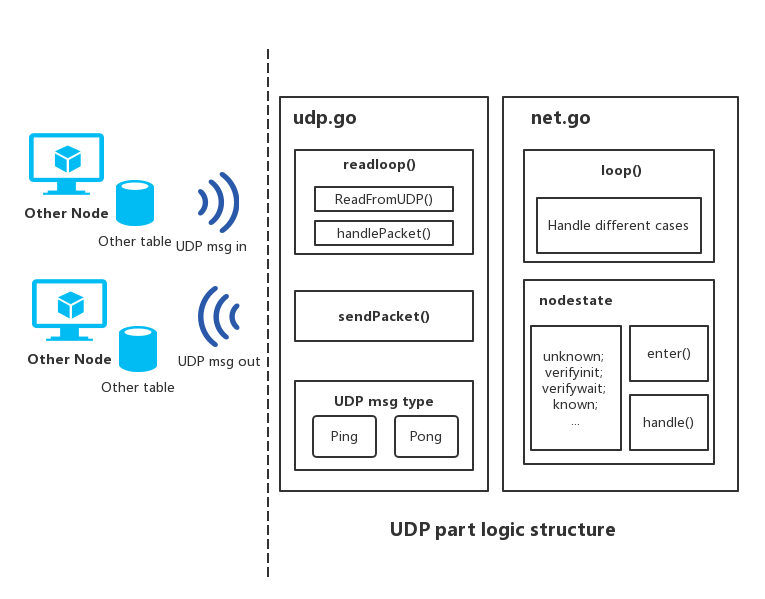
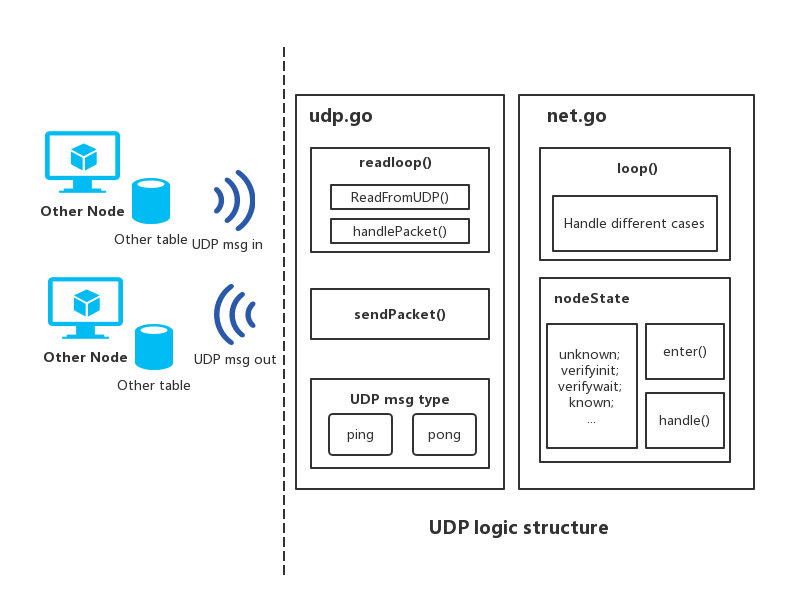
new update

Changed region(s): [[0.0301, 0.0902, 0.9621, 0.9616]]

diff --git a/ethereum P2P/Ethereum P2P.md b/ethereum P2P/Ethereum P2P.md
@@ -14,7 +14,7 @@ p.s. 主要针对以太坊源码的对应实现，相关的算法如kademlia DHT
 
 上图中，第一和第二步每隔一段时间就会重复一次。目的是保持当前节点的table所存储的url的可用性。当节点需要寻找新的节点用于tcp数据传输时，就从一直在更新维护的table中取出一定数量的url进行连接即可。
 
-## **UDP部分**
+## **UDP部分主要概念**
 
 前文提到过，以太坊会维护一个table结构用于存储发现的节点url，当需要连接新的节点时会从table中获取一定数量的url进行tcp连接。在这个过程中，table的更新和维护将会在独立的goroutine中进行。这部分涉及的代码主要在 `p2p/discvV5` 目录下的 `udp.go`, `net.go`, `table.go` 这三个文件中。下面我们看看udp这部分的主要逻辑结构：
 
@@ -69,8 +69,8 @@ func (net *Network) loop() {
 ```go
 type nodeState struct {
     name     string
-    handle   func(*Network, *Node, nodeEvent, *ingressPacket) (next *nodeState, err error)
-    enter    func(*Network, *Node)
+    handle   func( ... ) ( ... )
+    enter    func( ... )
     canQuery bool
 }
 
@@ -95,9 +95,36 @@ func init() {
 }
 ```
 
-<!-- TODO -->
+nodeState主要是为了记录新地址的可用状态。当节点接触新的 url 时，此 url 会首先被定义为 unknown 状态，然后进入后续 ping pong 验证阶段。验证流程过完以后 就会被定义为 known 状态然后保存到 table 中。
 
-## **新节点加入流程**
+### **enter() 和 handle()**
+
+nodeState 结构下定义了两个方法 `enter()` 和 `handle()`。
+
+- enter 是 nodeState 的入口方法，当一个 url 从 nodeState1 转到 nodeState2 时，它就会调用 nodeState2 的 enter() 方法。
+- handle 是 nodeState 的处理方法，当节点收到某个 url 的 udp 消息时，会调用此 url 当前 nodeState 的 handle() 方法。一般 handle() 方法会针对不同的 udp 消息类型进行不同的逻辑处理：
+
+```go
+// verifywait 的 handle 方法
+func (net *Network, n *Node, ev nodeEvent, pkt *ingressPacket) (*nodeState, error) {
+    switch ev {
+        case pingPacket:
+            net.handlePing(n, pkt)
+            return verifywait, nil
+        case pongPacket:
+            err := net.handleKnownPong(n, pkt)
+            return known, err
+        case pongTimeout:
+            return unknown, nil
+        default:
+            return verifywait, errInvalidEvent
+    }
+}
+```
+
+handle() 方法在处理后会返回一个 nodeState，意思是我当前的 nodeState 在处理了这个 udp 消息后下一步将要转换的新的 state。比如在上面的代码中，verifywait 状态下的 url 在收到 pong 类型的 udp 消息后就会转换成 known 状态。
+
+## **具体的新节点加入流程**
 
 
 
